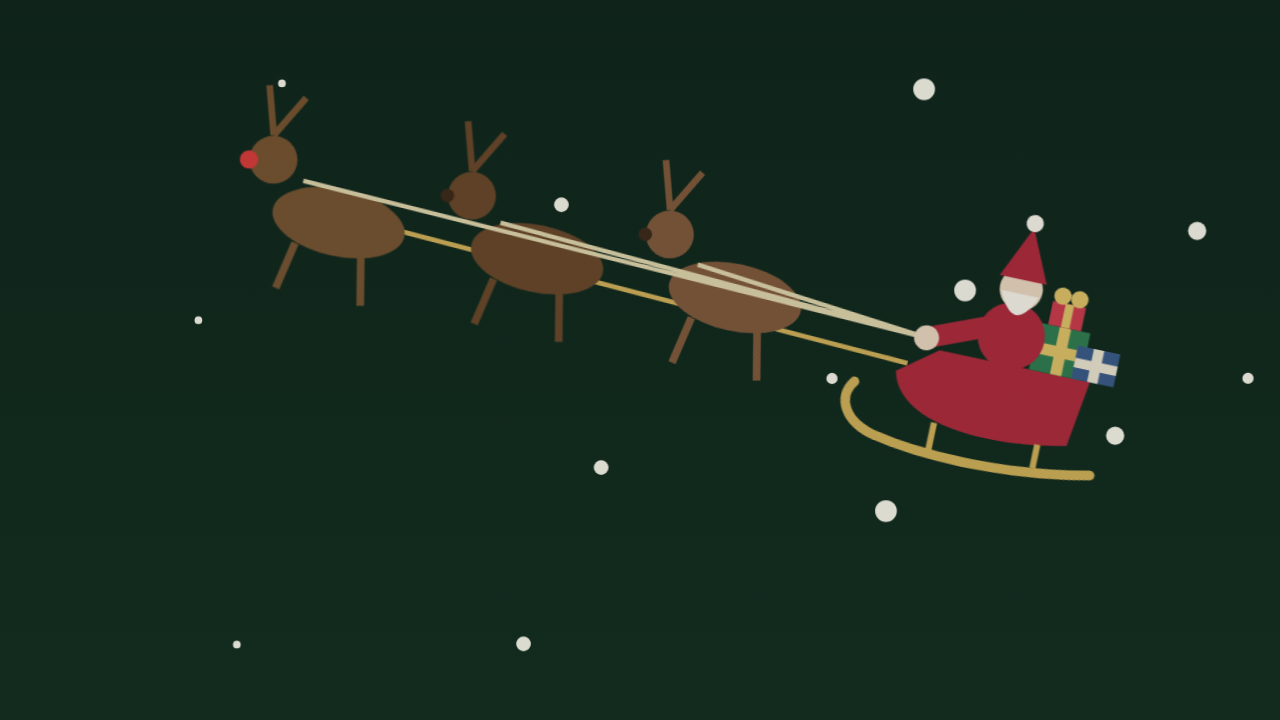
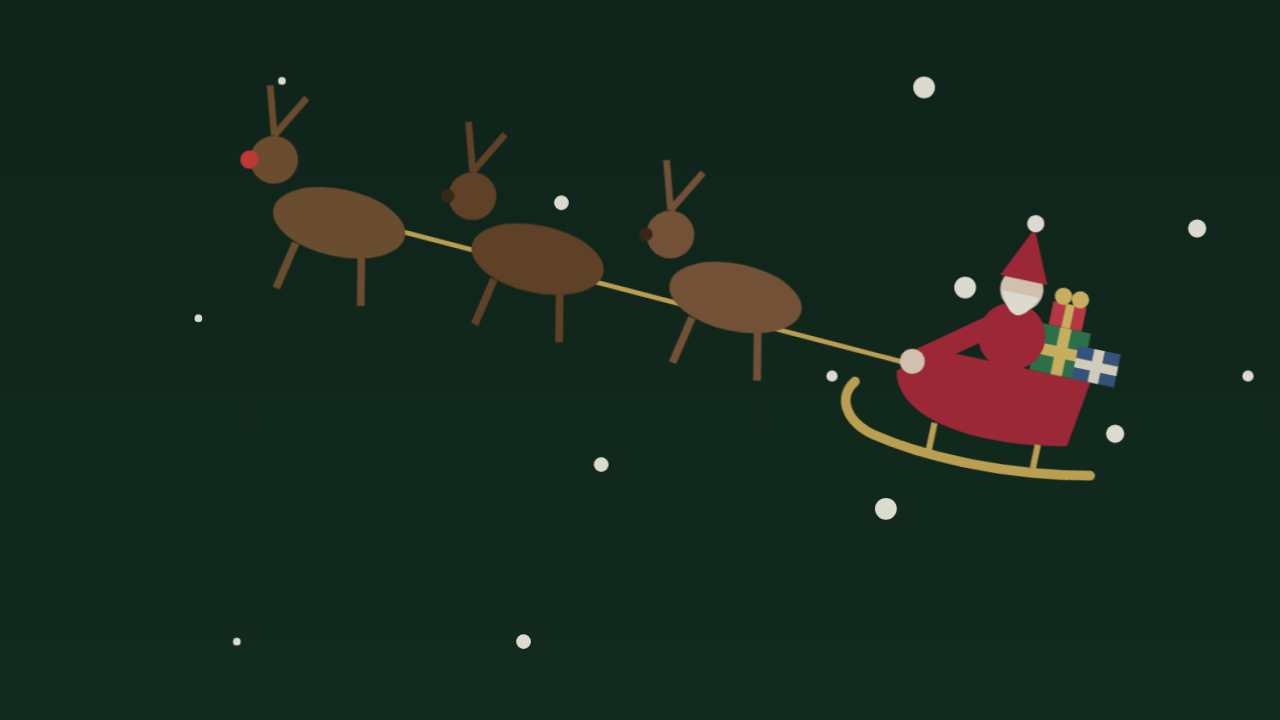
christmas-theme 0.3.4: Santa holds the existing harness line of the last reindeer, not three reins
Claude-Session: https://claude.ai/code/session_019US2gsjfkmf3Eo2ufavub8

diff --git a/plugins/christmas-theme/hooks/register.tsx b/plugins/christmas-theme/hooks/register.tsx
@@ -92,11 +92,10 @@ const SANTA = [
   '<circle cx="16.8" cy="-24.4" r="1.8" fill="#e8c76a"/>',
   '<circle cx="20.4" cy="-24.4" r="1.8" fill="#e8c76a"/>',
   '<circle cx="8" cy="-14" r="7" fill="#b3263b"/>',
-  // Santa holds the reins: three thin lines from his hand to the collars of the three reindeer, and an arm
-  // stretched forward to the hand, so he is the one pulling on them.
-  '<path d="M-9 -10 L-59 -15 M-9 -10 L-101 -15 M-9 -10 L-143 -15" stroke="#e8d9b0" stroke-width="0.9" fill="none"/>',
-  '<path d="M3 -15 L-8 -10.5" stroke="#b3263b" stroke-width="4.4" stroke-linecap="round" fill="none"/>',
-  '<circle cx="-9.2" cy="-10" r="2.6" fill="#f4dcc4"/>',
+  // Santa pulls on the harness line that runs from the last reindeer to the sleigh: an arm stretched forward, with
+  // the hand closed on the line where it leaves the sleigh.
+  '<path d="M3 -15 L-9.5 -5.6" stroke="#b3263b" stroke-width="4.4" stroke-linecap="round" fill="none"/>',
+  '<circle cx="-11.2" cy="-4.6" r="2.6" fill="#f4dcc4"/>',
   '<circle cx="8" cy="-24" r="4.5" fill="#f4dcc4"/>',
   '<path d="M3 -26 L8 -37 L13 -26 Z" fill="#b3263b"/>',
   '<circle cx="8" cy="-38" r="1.8" fill="#fffaf0"/>',
